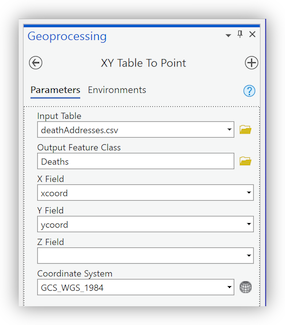
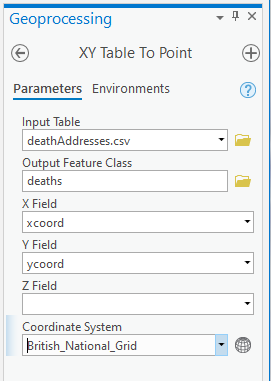
updateXY

Changed region(s): [[0.0, 0.0, 1.0, 1.0]]

diff --git a/Impatient_Ch4.md b/Impatient_Ch4.md
@@ -110,8 +110,9 @@ Zoom back out to the density map; and make sure the 'study area' sqaure frame is
 
 ## 4.3 Create new Data: Georeference a paper map  
 
-To determine whether there is evidence that the Broad Street pump was the source of the cholera outbreak of 1854, one needs to know which deaths took place near which water-pumps. Each death address must be allocated to a pump according to its proximity to that pump.  
-First we need the locations of the historic pumps, data which must be extracted from John Snow's original 1854 cholera outbreak map, by ovelaying the paper map onto the correct site within our GIS, and tracing the points off it. 
+To determine whether there is evidence that the Broad Street pump was the source of the cholera outbreak of 1854, one needs to know which deaths took place near which water-pumps. Each death address must be allocated to a pump according to its proximity to that pump.  We have, in our data folder, a table with the addresses and the deaths. But we will need to compare that information to the spatial location of the pumps. 
+
+We will need to create a new dataset with the locations of the historic pumps, data which must be extracted from John Snow's original 1854 cholera outbreak map, by ovelaying the paper map onto the correct site within our GIS, and tracing the points from it. 
 
 Catalogue > data folder > drag **snow_map.png** into the **Map**. 
 *(Click Yes if you are prompted to "Build pyramids". If it doesn’t prompt, you might need to come back to this and right-click on the layer.)*
@@ -137,6 +138,7 @@ Locate the corresponding intersection in the now visible basemap and place the s
 Turn on the 'snow_map.png' layer to check that it has "snapped" these two links together, as before. 
 
 Locate and place 3 more **Ground Control Points** (1 in each remaining corner and one near the center).  Try Soho sqaure! 
+
 ![](SNOW/allgcp.png)
 
 In case of a mistake, open up the **control point table**.  Turn off each point one-by-one to see which is faulty, then select and delete that point. 
@@ -157,8 +159,7 @@ Create Feature Class > Define >  **Name:** pumps; **Alias:** Water Pumps; **Feat
 ![](SNOW/newfcstep1.png)  
  **Field Name:** Label; **Data Type:** Text. > **Next**.  
 ![](SNOW/newfcstep2.png)  
-Set the **Spatial Reference** to **GCS WGS 1984** (find it under 'layers') >  **Finish**. 
-![](SNOW/newfcstep3.png)   
+Leave the **Spatial Reference** default **Bitish National Grid**. *(A projected system, this reference will allow for accurate measurements in meters, rather than degrees)*.  
 
 ### Add points to the Feature Class "Pumps"
 
@@ -176,18 +177,64 @@ Click on **Create** tool > a set of templates for each vector data layer appear 
 From the **Water Pumps** template select the Water Pump point.   Locate a Water Pump in the **snow_map.png** image, and click on it to place the point. Tick the 'check mark' in the floating tool-bar.
 In the Attribute Table, double-click on the new record under the **Label** field and enter a text-name for the Label field (use the name of the nearest street), then, to approve that name, be sure to hit RETURN.
 
-Repeat for the remaining 12 water pumps in the Snow Map. (There are 13 pumps in all; some are right near the edge.) 
+Repeat for the remaining 12 water pumps in the Snow Map. (There are 13 pumps in all; one is almost hidden along the border right near the edge.) 
 
-![](SNOW/editpoint.png)  
+![](SNOW/editpoint.png)
+  
+
 All edits within an edit-session have to be saved separately from saving the map itself. Click **Save** and confirm to save edits.  Close the **Create Features** Panel to close the edit session.
 Close the Water Pumps Attribute Table.
 
-Turn off the visibility of the snow_map layer, and zoom to the Water Pumps. 
+Turn offthe paper-map. 
+
+Label the pumps with the new ttribute: **Feature Layer** > Labeling > Label > Field: label.
+
+
+## 4.5 A new Data layer from an XY table: Deaths at each address
+
+Now the pumps are represented, add the data for the cholera deaths. 
+
+From the data folder, the dataset which describes the cholera-death locations is a table, not defined as a spatial data set.  Open it from the folder. Each line in the table is an address, with the number of cases at the adress, the address writen as text, and the latitude and longitude coordinates of these addresses.  
+*Notice how small the longitude number is- why?*
+
+In Pro, **Catalogue** > drag  ‘deathAddresses.csv file onto the contents window.
+
+ **Map** Tab > Add Data >  **Add XY Point Data**. This will open the *‘Geoprocessing’* tools window, with the tool: **XY Table to Point**.  *(Also find under Analysis > Tools > search for ‘XY’)*. 
+
+![](SNOW/XYpointdata.png)
+
+
+Under **Output Feature Class**, note that the new feature class will be exported to the ‘globaldatabase (gdb) as the default location for all new data.  
+Replace the default name with "**Deaths**" and remaining settings as shown: *Make sure the coordinate system is set to 'GCS_WGSS_1984' so that the data can be recognised on a long/lat system.*
+
+![](SNOW/XYtopoints.png)
+
+**Run**. Points are added to the **Map** and the new layer to **Contents**.
+
+![](SNOW/deathsadded.png)
+
+## 4.6 Statistics on an Attribute field  
+
+Obtain a simple statistical snapshot of the number of deaths at each address from the data in the Attribute Table. *(Make sure the layer is selected).* 
+
+Open the Attribute table: **Feature Layer** > Data > Attribute Table  *(Shortcut:right-click)*
+ **Num_Cases** shows the number of deaths at each address. Right-click on the header of **Num_Cases** and select **Statistics**.  A histogram of the data distribution will appear over the top of the Attribute Table, and a "Distribution of Num_Cases" panel will appear in the tabbed panel area on the right. 
+
+![](SNOW/Statistics.png)   
+
+## 4.8 Proportional symbols: Show relative quantities
+
+The dots are all alike. Change the symbology to show, with the size of the circle, the different numbers of people who died at each address.  
+ **Appearance** > Symbology *(Or right-click)* Change 'Single Symbol' to **Proportional Symbols** and set Field = Num_Cases.  
+ In the **Histogram** the range of values for the Num_Cases was 1-18. So set Minimum size = 1.00 and Maximum size = 18.  On the Template for **symbol** select a larger circle- say Circle 3 at (40%). 
+
+![](SNOW/proportional.png)
 ![](SNOW/pumpswithlabels.png)  
 
-## 4.5 Finding and Using an already georeferenced map online
 
-There are many venues for searching for old maps as sources for spatial data. It is possible to scan and georeference almost any map you can find reference data (another map to georeference to) for, bearing in mind considerations of scale, authority, projections, etc.when using a scanned map as a data source.
+## 4.7 Finding and Using an already Georeferenced map online
+
+There are many venues for searching for old maps as sources for spatial data. It is possible to scan and georeference almost any map you can find reference data for (another map to georeference to) bearing in mind considerations of scale, authority, projections, etc.when using a scanned map as a data source.
 
 * [earthworks.stanford.edu](earthworks.stanford.edu)
 * [DavidRumsey.com](DavidRumsey.com)
@@ -215,46 +262,3 @@ This URL provides access to the georeferenced map beyond the DavidRumsey.com web
 Insert the map into ArcGIS Pro. **Insert** tab > Project group> **Connections** drop-down list > New WMTS Server. 
 The **Add WMTS Server Connection** dialog box appears. Paste the URL of the WTMS server site.
 In the catalog paine, the maps.georeferencer appears under the folder **Servers**. Expland the down arrow, and drag the map "Gerend von London' onto the **Map** page. It will take a while to load. 
-
-## 4.6 Create a new Data layer from an XY table
-
-The dataset in the folder which describes the locations where deaths from Cholera happened, is a table, not a spatial data set.  Open it. Each line in the table is an address, with the number of cases at the adress, the address writen as text, and the latitude and longitude coordinates of these addresses.  
-*Notice how small the longitude number is- why?*
-
-Catalogue > drag  ‘deathAddresses.csv file onto the contents window.
-
- **Map** Tab > Add Data >  **Add XY Point Data**. This will open the *‘Geoprocessing’* tools window, with the tool: **XY Table to Point**.  *(Also find under Analysis > Tools > search for ‘XY’)*. 
-
-![](SNOW/XYpointdata.png)
-
-Under **Output Feature Class**, note that the new feature class will be exported to the ‘globaldatabase (gdb) as the default location for all new data.  
-Replace the default name with "**Deaths**" and remaining settings as shown: *(make sure the coordinate system is GCS_WGS_1984)*
-
-![](SNOW/XYtopoints.png)
-
-**Run**. Points are added to the **Map** and the new layer to **Contents**.
-
-![](SNOW/deathsadded.png)
-
-## 4.7 Statistics on an Attribute field  
-
-Obtain a simple statistical snapshot of the number of deaths at each address from the data in the Attribute Table. *(Make sure the layer is selected).* 
-
-Open the Attribute table: **Feature Layer** > Data > Attribute Table  *(Shortcut:right-click)*
- **Num_Cases** shows the number of deaths at each address. Right-click on the header of **Num_Cases** and select **Statistics**.  A histogram of the data distribution will appear over the top of the Attribute Table, and a "Distribution of Num_Cases" panel will appear in the tabbed panel area on the right. 
-
-![](SNOW/Statistics.png)   
-
-## 4.8 Proportional symbols: Show relative quantities
-
-The dots are all alike. Change the symbology to show, with the size of the circle, the different numbers of people who died at each address.  
- **Appearance** > Symbology *(Or right-click)* Change 'Single Symbol' to **Proportional Symbols** and set Field = Num_Cases.  
- In the **Histogram** the range of values for the Num_Cases was 1-18. So set Minimum size = 1.00 and Maximum size = 18.  On the Template for **symbol** select a larger circle- say Circle 3 at (40%). 
-
-![](SNOW/proportional.png)
-
-### Set a reference scale for Zooming
-
-The circle symbology remains the same size as one Zooms in and out of the Map, regardless of the viewing scale.  To keep it proportional change the properties of the WHOLE map-frame. 
-Right-click on **Map** at the top of the **Contents** > Properties >  **General** > change the **Reference scale**  to 1:5000 > OK .
-Symbols now change size along with the zooming of the map. 
